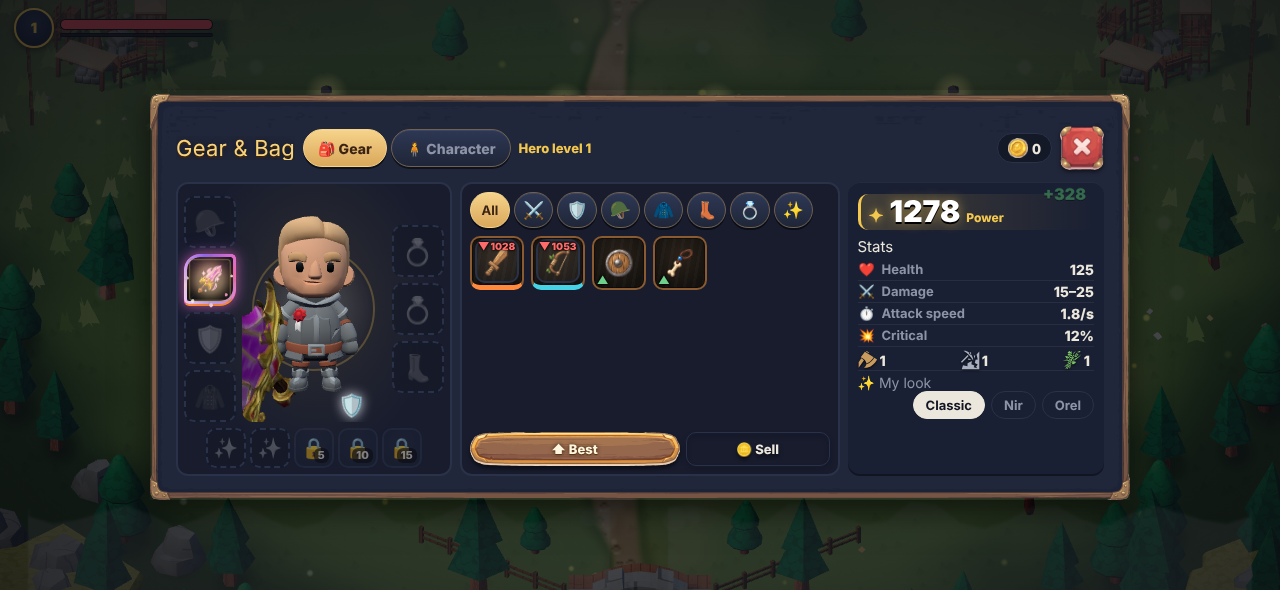
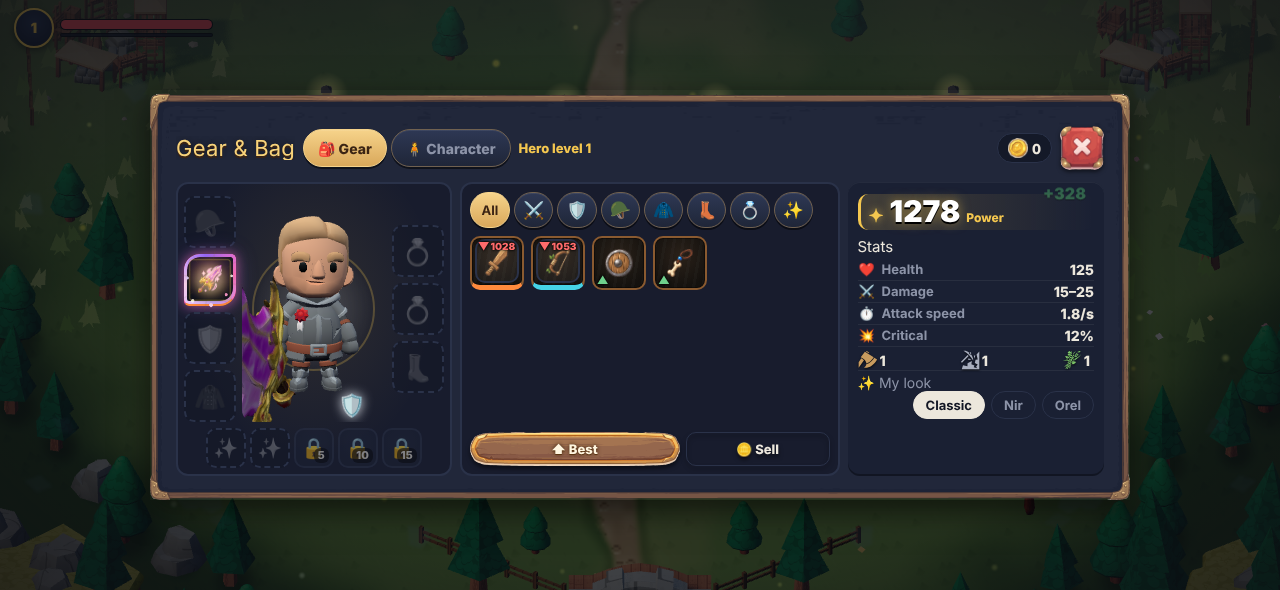
בדיקת הנשקים: צורה ופרטים מלפנים ומהצד, מזהה מודל, זמן ממלא המקום, הערכת התאמת מצלמה (בקשות המתאם)
Claude-Session: https://claude.ai/code/session_01ABMDoJR4SZLkmAmtbUibyd

Changed region(s): [[0.1875, 0.4271, 0.2812, 0.7322]]

diff --git a/tools/weapon-audit.js b/tools/weapon-audit.js
@@ -5,7 +5,7 @@
        איך מוצאים את הנשק בציור: מציירים את הסצנה פעם עם הנשק ופעם בלעדיו, וההפרש הוא הנשק. כך רק הפיקסלים של הנשק נמדדים.
        בפריט עם מודל משלו (w_item_<id>, נטען בעצלתיים ב-m3d.js) נמדד גם הרגע שלפני שהמודל נטען: אז מוצג look.model עם זוהר הדרגה.
    (ב) מסגור: בחלון הציוד, בכמה זוויות של הנדנוד, האם הנשק נחתך בקצה הקנבס של הבובה, או מוסתר מתחת לחלק אחר של החלון.
-   הרצה:  node tools/weapon-audit.js            (כ-13 דקות, התלת-ממד רץ על המעבד)
+   הרצה:  node tools/weapon-audit.js            (כ-15 דקות, התלת-ממד רץ על המעבד)
    פלט:   docs/weapon-audit/audit.json, docs/weapon-audit/sheet.png (תמונה מול הנשק ביד), ושורות במסוף.
    הדוח הכתוב (docs/weapon-audit-2026-11-09.md) נכתב ביד מתוך audit.json. */
 const {chromium}=require('playwright');
@@ -96,8 +96,8 @@ function pageHelpers(){
     SAVE.hero.start=cls;for(const s in SAVE.gear){const v=SAVE.gear[s];SAVE.gear[s]=Array.isArray(v)?v.map(()=>null):null}
     SAVE.gear.weapon=id;wEquip(id);return cls},id);
   const own=id=>page.evaluate(id=>({lazy:m3dLazy('w_item_'+id),ready:!!R3D.props['w_item_'+id]}),id);
-  const loadOwn=async id=>{await page.evaluate(id=>m3dNeed('w_item_'+id),id);
-    await page.waitForFunction(id=>!m3dLazy('w_item_'+id)||['ready','fail'].includes(M3D.st['w_item_'+id]),id,{timeout:30000}).catch(()=>{})};
+  const loadOwn=async id=>{const t0=Date.now();await page.evaluate(id=>m3dNeed('w_item_'+id),id);   // מחזיר כמה זמן לקח (מקומי, מקובץ: בטלפון מהרשת זה אחר)
+    await page.waitForFunction(id=>!m3dLazy('w_item_'+id)||['ready','fail'].includes(M3D.st['w_item_'+id]),id,{timeout:30000,polling:20}).catch(()=>{});return Date.now()-t0};
 
   // ---- בובה: חלון הציוד פתוח ----
   const doll=id=>page.evaluate(id=>{
@@ -114,22 +114,35 @@ function pageHelpers(){
     // מה חותך את הקנבס: אבות עם overflow שאינו visible, והמסך
     let clip=[0,0,innerWidth,innerHeight];for(let e=cvs.parentElement;e;e=e.parentElement){const s=getComputedStyle(e);if(s.overflow!=='visible'||s.overflowX!=='visible'||s.overflowY!=='visible'){const r=e.getBoundingClientRect();clip=[Math.max(clip[0],r.left),Math.max(clip[1],r.top),Math.min(clip[2],r.right),Math.min(clip[3],r.bottom)]}}
     const ph=[0,Math.PI/2,Math.PI,Math.PI*1.5];   // הקצוות של הנדנוד: sin=±1
-    let first=null,clipped=0,hidden=0,offView=0,cover={},tot=0,edge=0;
+    let first=null,clipped=0,hidden=0,offView=0,cover={},tot=0,edge=0,ndc=0;
+    const ndcMax=obj=>{obj.updateMatrixWorld(true);let mx=0;const v=new THREE.Vector3();
+      obj.traverse(o=>{if(!o.isMesh)return;const P=o.geometry.attributes.position;for(let i=0;i<P.count;i+=1){v.fromBufferAttribute(P,i).applyMatrix4(o.matrixWorld).project(D.cam);mx=Math.max(mx,Math.abs(v.x),Math.abs(v.y))}});return mx};
     for(const p of ph){a.root.rotation.y=(D.yaw||0)+Math.sin(p)*D.sway;
       const r=__wa.diff(cvs,render,[prop]);if(!first)first=r;
       edge=Math.max(edge,r.edge);
-      // ההיטל של הקופסה של הנשק: מחוץ ל-[-1,1] = חלק מהנשק מחוץ לקנבס
-      const bb=new THREE.Box3().setFromObject(prop);let out3=0;
-      for(const x of [bb.min.x,bb.max.x])for(const y of [bb.min.y,bb.max.y])for(const z of [bb.min.z,bb.max.z]){const v=new THREE.Vector3(x,y,z).project(D.cam);if(Math.abs(v.x)>1.0||Math.abs(v.y)>1.0)out3++}
-      if(out3)clipped++;
+      // ההיטל המדויק של הנשק (כל הקודקודים): כמה רחוק הוא יוצא מ-[-1,1]. מזה מחשבים כמה הדמות תקטן אם המצלמה תתאים את עצמה לגוף+נשק
+      const m=ndcMax(prop);if(m>1.0)clipped++;ndc=Math.max(ndc,m);
       // נקודות של הנשק: מה מעליהן על המסך
       for(let i=0;i<r.pts.length;i+=2*Math.max(1,Math.floor(r.pts.length/2/150))){tot++;
         const sx=rect.left+r.pts[i]/r.w*rect.width,sy=rect.top+r.pts[i+1]/r.h*rect.height;
         if(sx<clip[0]||sy<clip[1]||sx>clip[2]||sy>clip[3]){offView++;continue}
         const el=document.elementFromPoint(sx,sy);if(!el||el===cvs||el.contains(cvs))continue;
         hidden++;const k=el.tagName.toLowerCase()+(el.id?'#'+el.id:'')+(el.className?'.'+String(el.className).split(' ')[0]:'');cover[k]=(cover[k]||0)+1}}
+    // תנוחת הריעה (doll3d מריע כשלובשים): גם היא נכנסת להתאמה
+    let ndcCheer=0;try{const c=R3D.clips[DOLL3D.cheer];if(c){const act=a.mixer.clipAction(c);a.mixer.stopAllAction();act.reset().play();
+      for(const t of [0.3,0.6,0.9,1.2]){a.mixer.setTime(t);a.root.rotation.y=D.yaw||0;a.root.updateMatrixWorld(true);ndcCheer=Math.max(ndcCheer,ndcMax(prop))}
+      act.stop();loop(a,D.idle);a.mixer.update(0.6)}}catch(e){ndcCheer=-1}
+    // תקריב של הנשק לבד, מלפנים ומהצד, כדי לשפוט צורה ופרטים (לא רק צבע)
+    const shots={};{const hid=[],under=new Set();prop.traverse(o=>under.add(o));
+      D.scene.traverse(o=>{if((o.isMesh||o.isSprite||o.isPoints)&&!under.has(o)&&o.visible){o.visible=false;hid.push(o)}});
+      const cam=D.cam.clone(),S2=260;D.r.setSize(S2,S2,false);
+      for(const [k,ry] of [['front',0],['side',Math.PI/2]]){a.root.rotation.y=ry;a.root.updateMatrixWorld(true);
+        const bb=new THREE.Box3().setFromObject(prop),c=bb.getCenter(new THREE.Vector3()),sz=bb.getSize(new THREE.Vector3()).length();
+        cam.aspect=1;cam.position.set(c.x,c.y,c.z+sz/2/Math.tan(cam.fov*Math.PI/360)*1.1);cam.lookAt(c);cam.updateProjectionMatrix();
+        D.r.render(D.scene,cam);const g=__wa.grab(cvs);const o=document.createElement('canvas');o.width=S2;o.height=S2;o.getContext('2d').drawImage(g.c,0,0);shots[k]=o.toDataURL('image/png')}
+      for(const o of hid)o.visible=true;D.r.setSize(w,h,false)}
     a.root.rotation.y=D.yaw||0;
-    return {...out,col:__colorStats(first.px),img:first.img,bb:first.bb,cw:first.w,ch:first.h,edgePx:edge,projOut:clipped,ofSamples:ph.length,
+    return {...out,ndc:+ndc.toFixed(2),ndcCheer:+ndcCheer.toFixed(2),fitScale:+(1/Math.max(1,ndc,ndcCheer)).toFixed(2),front:shots.front,side:shots.side,col:__colorStats(first.px),img:first.img,bb:first.bb,cw:first.w,ch:first.h,edgePx:edge,projOut:clipped,ofSamples:ph.length,
       hidPct:tot?Math.round(hidden/tot*100):0,offPct:tot?Math.round(offView/tot*100):0,cover,clipRect:clip.map(Math.round)};
   },id);
 
@@ -165,7 +178,7 @@ function pageHelpers(){
   for(const id of ids){
     const cls=await wear(id);const o=await own(id);const R=res[id];R.cls=cls;R.own=o;
     if(o.lazy&&!o.ready){R.dollPre=await doll(id);await page.evaluate(()=>{const D=R3D.doll;D.last=performance.now();D.raf=requestAnimationFrame(dollFrame)})}   // הבובה ממשיכה לזוז כמו במשחק
-    await loadOwn(id);await page.waitForTimeout(400);
+    R.loadMs=await loadOwn(id);R.loadSt=await page.evaluate(id=>M3D.st['w_item_'+id]||(m3dLazy('w_item_'+id)?'?':'not lazy'),id);await page.waitForTimeout(400);
     if(R.dollPre)R.stale=await page.evaluate(()=>R3D.doll.key!==dollKey());   // המודל נטען, אבל הבובה עדיין עם המראה הישן (dollBuild רק מ-gearDraw)
     if(id==='skyBow'&&R.stale)await page.screenshot({path:path.join(OUT,'gear-window-skyBow-stale.png')});
     R.own2=await own(id);
@@ -193,17 +206,17 @@ function pageHelpers(){
     R.matchWorld=R.world&&R.world.n>=WORLD_MIN?ok(R.world.col):null;   // בעולם הגיבור קטן, ולפעמים הנשק מאחוריו: מתחת ל-WORLD_MIN פיקסלים לא שופטים
     const d=R.doll||{};R.frameOk=!(d.edgePx>3||d.hidPct>=5||d.offPct>=5)}
   // תמונת השוואה: תמונה | בבובה (לפני טעינה) | בבובה | בעולם
-  const sheet=await browser.newPage({viewport:{width:900,height:400},deviceScaleFactor:1});
+  const sheet=await browser.newPage({viewport:{width:1220,height:400},deviceScaleFactor:1});
   const cell=(img,c,ok)=>'<td>'+(img?'<img src="'+img+'">':'<i>—</i>')+(c?'<div><span class="sw" style="background:'+c.hex+'"></span>'+c.name+' '+(c.neutral?'':c.hue+'°')+'</div>':'')+(ok===false?'<div class="x">✗</div>':ok===true?'<div class="ok">✓</div>':'')+'</td>';
-  const html='<style>body{background:#1d1a26;color:#eee;font:13px sans-serif;margin:8px}td{border:1px solid #444;padding:4px;text-align:center;vertical-align:top;width:150px}img{max-width:140px;max-height:110px;background:#2c2838}th{padding:4px}.sw{display:inline-block;width:12px;height:12px;border:1px solid #fff;margin-inline-end:4px;vertical-align:middle}.x{color:#ff6b6b;font-weight:bold}.ok{color:#7ed97e}</style><table><tr><th>weapon</th><th>picture</th><th>doll before own model loads</th><th>doll (gear window)</th><th>world (village)</th></tr>'+
-    ids.map(id=>{const R=res[id];return '<tr><td><b>'+id+'</b><br>tier '+R.tier+' · '+R.cls+'<br>'+(R.doll&&R.doll.propName||'')+(R.frameOk?'':'<div class="x">framing ✗ ('+R.doll.edgePx+'px at edge'+(R.doll.hidPct?', '+R.doll.hidPct+'% under badge':'')+')</div>')+(R.stale?'<div class="x">doll stale after load</div>':'')+'</td>'+cell(R.pic&&R.pic.img,R.pic&&R.pic.col)+cell(R.dollPre&&R.dollPre.img,R.dollPre&&R.dollPre.col,R.matchPre)+cell(R.doll&&R.doll.img,R.doll&&R.doll.col,R.matchDoll)+cell(R.world&&R.world.img,R.world&&R.world.n>=WORLD_MIN&&R.world.col,R.matchWorld)+'</tr>'}).join('')+'</table>';
+  const html='<style>body{background:#1d1a26;color:#eee;font:13px sans-serif;margin:8px}td{border:1px solid #444;padding:4px;text-align:center;vertical-align:top;width:150px}img{max-width:140px;max-height:110px;background:#2c2838}th{padding:4px}.sw{display:inline-block;width:12px;height:12px;border:1px solid #fff;margin-inline-end:4px;vertical-align:middle}.x{color:#ff6b6b;font-weight:bold}.ok{color:#7ed97e}</style><table><tr><th>weapon</th><th>picture</th><th>doll before own model loads</th><th>doll (gear window)</th><th>world (village)</th><th>weapon alone: front</th><th>side</th></tr>'+
+    ids.map(id=>{const R=res[id];return '<tr><td><b>'+id+'</b><br>tier '+R.tier+' · '+R.cls+'<br>'+(R.doll&&R.doll.propName||'')+(R.frameOk?'':'<div class="x">framing ✗ ('+R.doll.edgePx+'px at edge'+(R.doll.hidPct?', '+R.doll.hidPct+'% under badge':'')+')</div>')+(R.stale?'<div class="x">doll stale after load</div>':'')+'</td>'+cell(R.pic&&R.pic.img,R.pic&&R.pic.col)+cell(R.dollPre&&R.dollPre.img,R.dollPre&&R.dollPre.col,R.matchPre)+cell(R.doll&&R.doll.img,R.doll&&R.doll.col,R.matchDoll)+cell(R.world&&R.world.img,R.world&&R.world.n>=WORLD_MIN&&R.world.col,R.matchWorld)+cell(R.doll&&R.doll.front)+cell(R.doll&&R.doll.side)+'</tr>'}).join('')+'</table>';
   await sheet.setContent(html);await sheet.screenshot({path:path.join(OUT,'sheet.png'),fullPage:true});
   // JSON בלי התמונות
-  const slim=JSON.parse(JSON.stringify(res,(k,v)=>k==='img'?undefined:v));
+  const slim=JSON.parse(JSON.stringify(res,(k,v)=>k==='img'||k==='front'||k==='side'?undefined:v));
   fs.writeFileSync(path.join(OUT,'audit.json'),JSON.stringify({view:VIEW,hueTol:HUE_TOL,errors:errors.slice(0,10),weapons:slim},null,1));
   for(const id of ids){const R=res[id],c=x=>x?x.name+(x.neutral?'':'/'+x.hue):'-';
     console.log(id.padEnd(13)+' pic '+c(R.pic&&R.pic.col).padEnd(12)+' pre '+c(R.dollPre&&R.dollPre.col).padEnd(12)+' doll '+c(R.doll&&R.doll.col).padEnd(12)+' world '+c(R.world&&R.world.col).padEnd(12)+
-      ' '+(R.matchDoll===false?'✗doll':'✓doll')+(R.matchPre===false?' ✗pre':'')+(R.matchWorld===false?' ✗world':'')+(R.stale?' stale':'')+' '+(R.frameOk?'✓frame':'✗frame edge'+(R.doll||{}).edgePx+' proj'+(R.doll||{}).projOut+' hid'+(R.doll||{}).hidPct+'% off'+(R.doll||{}).offPct+'% '+JSON.stringify((R.doll||{}).cover||{})))}
+      ' '+(R.matchDoll===false?'✗doll':'✓doll')+(R.matchPre===false?' ✗pre':'')+(R.matchWorld===false?' ✗world':'')+(R.stale?' stale':'')+' model '+((R.doll||{}).propName)+(R.loadMs!=null&&R.own&&R.own.lazy?' load '+R.loadMs+'ms':'')+' fit×'+((R.doll||{}).fitScale)+' ndc '+((R.doll||{}).ndc)+'/'+((R.doll||{}).ndcCheer)+' '+(R.frameOk?'✓frame':'✗frame edge'+(R.doll||{}).edgePx+' proj'+(R.doll||{}).projOut+' hid'+(R.doll||{}).hidPct+'% off'+(R.doll||{}).offPct+'% '+JSON.stringify((R.doll||{}).cover||{})))}
   if(errors.length)console.log('שגיאות בדף:',errors.slice(0,5));
   await browser.close();
 })().catch(e=>{console.error(e);process.exit(1)});

diff --git a/docs/weapon-audit-2026-11-09.md b/docs/weapon-audit-2026-11-09.md
@@ -1,7 +1,7 @@
 # Weapon visuals audit (9.11.2026)
 
 Two complaints from Nir's playtester (v0.3.589.628): (1) a weapon in the hand doesn't match its picture (skyBow pink, stormBow silver), (2) in Gear & Bag the weapon gets cut off at the right edge or hidden.
-Measured with `node tools/weapon-audit.js` (3D, 1280×590, deviceScaleFactor 1, about 13 minutes). Nothing in the game changed. Raw data: [weapon-audit/audit.json](weapon-audit/audit.json). Picture next to held model for every weapon: [weapon-audit/sheet.png](weapon-audit/sheet.png).
+Measured with `node tools/weapon-audit.js` (3D, 1280×590, deviceScaleFactor 1, about 15 minutes on a computer without a GPU). Nothing in the game changed. Raw data: [weapon-audit/audit.json](weapon-audit/audit.json). Picture next to held model for every weapon: [weapon-audit/sheet.png](weapon-audit/sheet.png).
 
 **How it measures.** Each scene is rendered twice, with the weapon and without it, and the difference is the weapon's pixels. Only those pixels are measured, so the hero's body doesn't count. For each one the tool takes the average colour (dark outlines removed): hue, saturation and brightness. It counts as a **match** when the hues are within 45°, or both colours are grey/greyish, **and** the held weapon is at least 0.55 as bright as the picture. (The doll is lit about 0.75× as bright as the pictures on average, so a small drop is normal.) For **framing**, the doll is rendered at both ends of its sway (±sway) plus two middle poses. A weapon is clipped when more than 3 of its pixels touch the canvas border, and hidden when 5% or more of its pixels sit under another element (checked with elementFromPoint).
 
@@ -11,6 +11,7 @@ Measured with `node tools/weapon-audit.js` (3D, 1280×590, deviceScaleFactor 1, 
   - 3 only before their own model loads (starStaff, skyBow, stormBow).
   - 3 even after it loads (dragonBlade, wardenHammer, silverWand).
 - **The doll doesn't refresh: all 6 weapons that have their own model** (ironStaff, goldStaff, starStaff, dragonBlade, skyBow, stormBow). It shows the fallback model and stays that way after the own model arrives, until something redraws the window. This is exactly the pink skyBow the tester saw: [gear-window-skyBow-stale.png](weapon-audit/gear-window-skyBow-stale.png).
+- **Shape/details (by eye, separate from colour): 4 clear mismatches + 1 partial.** Clear: silverBlade, wardenHammer, oakStaff, and goldAxe (likely). Partial: silverWand. All five use generic KayKit models.
 - **Framing: 10 of 17 are cut off at the edge of the doll canvas** (every sword, axe, hammer and legendary item, plus starStaff, skyBow and stormBow). 1 is hidden 9% under the class badge (stormBow). Two more are partly under it but below the 5% threshold (skyBow 4%, dragonBlade 2%). Only the bows and the simple staves (6 + silverWand) fit.
 
 ## Table
@@ -39,6 +40,38 @@ Pic = the picture's colour. Before load = the doll before the own model loads (`
 
 In the world (village) the hero is small and the camera is above and behind. The bows hardly show (0 to 3 pixels), so they aren't judged there. The weapons that are visible come out pale and warm (beige) under the village light: dragonBlade looks beige, stormBow white. That's a general limit of the world view, not one item. The world column is in sheet.png.
 
+## Model per weapon and the stand-in (after load vs before)
+
+Every weapon is judged **after** its own model has fully loaded (the tool waits for `M3D.st['w_item_<id>']==='ready'`). The state before load is reported separately.
+- **Own model (6):** ironStaff, goldStaff, starStaff, dragonBlade, skyBow, stormBow (`w_item_<id>`, lazy-loaded in m3d.js). Measured load time: 80–465 ms. This was measured locally from files, on the computer. On the phone over the network it will be different, which is an **estimate, not measured**.
+  - **In the world:** the stand-in disappears on the next frame after loading (`M3D.hv` is in the `heroLook` key).
+  - **In Gear & Bag:** the stand-in **stays** until the window redraws (all 6 measured as `stale`).
+  - What the stand-in looks like: `look.model` (a KayKit family model) with the tier glow. starStaff and skyBow are pink, stormBow is silver, goldStaff is gold, dragonBlade is pink, ironStaff is grey.
+  - Correction to the playtester's list: ironStaff does have its own model (`w_item_ironStaff`), and it matches the mace picture.
+- **Generic family model only (11):** oakSword `w_sword_A`, ironSword `w_sword_B`, silverBlade `w_sword_C`, oakBow `w_bow_A_withString`, ironBow/goldBow `w_bow_B_withString`, oakStaff `w_staff_A`, silverWand `w_wand_A`, ironAxe `w_axe_A`, goldAxe `w_axe_B`, wardenHammer `w_hammer_A`.
+- **Confirmed in code: `look.glow` doesn't affect anything in the regular mode.** `gear3dLook` (render3d.js) sets `p.glow=g3Rar(it.tier)`, so the glow comes from the tier and not the item. `makeActor` skips glow on own models (`if(p.glow&&!own)`). So the tier glow only paints the stand-in and the generic models, and `look.glow` is read only with `?gear3d=0`, in the doll (doll3d.js).
+
+## Shape and details (checked by eye, separate from the colour rule)
+
+The contact sheet has close-ups of each weapon on its own, from the front and from the side (`front`/`side` columns), plus how it looks in the doll. Checked against the playtester's findings:
+
+| Weapon | Playtester's finding | Here |
+|---|---|---|
+| silverBlade | Curved, detailed picture vs a generic straight sword | ✓ Confirmed: `w_sword_C` is straight and thin, with no blue gem and no curve |
+| wardenHammer | Green rune missing | ✓ Confirmed: a plain grey block, with no stone, moss or rune |
+| oakStaff | Leafy curled picture vs a plain stick | ✓ Confirmed: a straight brown stick |
+| goldAxe | Red gem / gold detail missing | Likely: gold colour matches, but no red gem visible at this resolution |
+| silverWand | Blue crystal missing | Partly: there's a pale blue blob on the tip, but no crystal shape and no gems |
+| dragonBlade, goldStaff, starStaff | Close to the picture (own model) | ✓ Shape matches. dragonBlade is darker in the doll (see colour) |
+| oakSword, ironSword, ironAxe, oakBow, ironBow, goldBow | Generic | ✓ Shape close in general. Small details missing: oakBow's leaves, goldBow's red gems |
+| skyBow, stormBow | – | ✓ Shape matches (own model). stormBow is darker (navy vs lavender) |
+
+## How much a camera fit to body+weapon would shrink the character (estimate from geometry)
+
+For each weapon, the tool projects every vertex of the weapon through the doll camera, across the sway and across 4 frames of the cheer (`Cheering`). It reports how far the weapon goes past the frame edge (`ndc`; above 1 = outside) and what scale the character would get if the camera fitted everything (`fitScale` in audit.json).
+- Bows, staves and wands: 0.82–1, a small change. The exception is skyBow 0.82, and stormBow 0.57 because of the cheer pose (1.44).
+- **Swords and axes: 0.40–0.53, and dragonBlade 0.31.** The weapon sticks out a lot to the side in the idle pose, so fitting to its bbox would halve the character or more. **Not recommended on its own.**
+
 ## The 3 worst
 
 1. **stormBow:** before load it's silver instead of purple. The doll stays that way until it redraws. 344 pixels on the right edge are cut off, and the 🏹 class badge covers 9% of it. Both of the tester's complaints in one weapon.
@@ -59,7 +92,12 @@ In the world (village) the hero is small and the camera is above and behind. The
 2. **Glow data:** decide on one source of truth. Either `gear3dLook` takes `look.glow||g3Rar(tier)`, or the `glow` lines in gear.js are deleted so they don't mislead. A data fix, not new art.
 3. **Own model darker than the picture (dragonBlade):** retint/brighten the model (texture or emissiveMap in tools/blender), or allow a light glow on own models too. Re-rendering the picture from the model with `tools/blender/icon.js` is the second choice, because the bright picture is the one Nir liked.
 4. **Picture and model are different objects (wardenHammer, a bit silverWand):** a separate model (w_item_wardenHammer), or re-render the picture from the KayKit model. Cheaper: re-render the picture.
-5. **Framing:** fit the doll camera to the bounding box of body **plus weapon** across the whole sway (not body height only), and/or let the canvas fill the doll column (the 140% rule exists in style.css line 799 but is overridden in landscape at line 1217). Move the class badge to the top corner, or hide it when a 3D doll is showing.
+5. **Framing (in this order):**
+   - (a) Let the canvas fill the doll column. It's about 270 px wide vs a 144 px canvas, so roughly 1.9× the width; that's an estimate from the screenshot. The 140% rule exists in style.css line 799 but is overridden in landscape at line 1217. This alone covers most of the bows and swords without shrinking the character.
+   - (b) An idle pose for the blade family as well (`DOLL3D.idleBy`, as bows and magic already have): the weapon held down or in front, not out to the side.
+   - (c) Only then, a camera fit to body+weapon with a minimum scale (about 0.8), so long weapons don't shrink the character to half (see the estimate above).
+   - Move the class badge to the top corner, or hide it when a 3D doll is showing.
+6. **Shape mismatch (silverBlade, wardenHammer, oakStaff, goldAxe, silverWand):** this isn't solved with glow or colour. Each needs either its own model (as was done for skyBow and starStaff, tools/blender), or a picture re-rendered from the existing model (`tools/blender/icon.js`). The cheap option is re-rendering the picture, but it loses the detailed art Nir saw. That's a taste decision for Nir.
 
 ## Running it again
 
